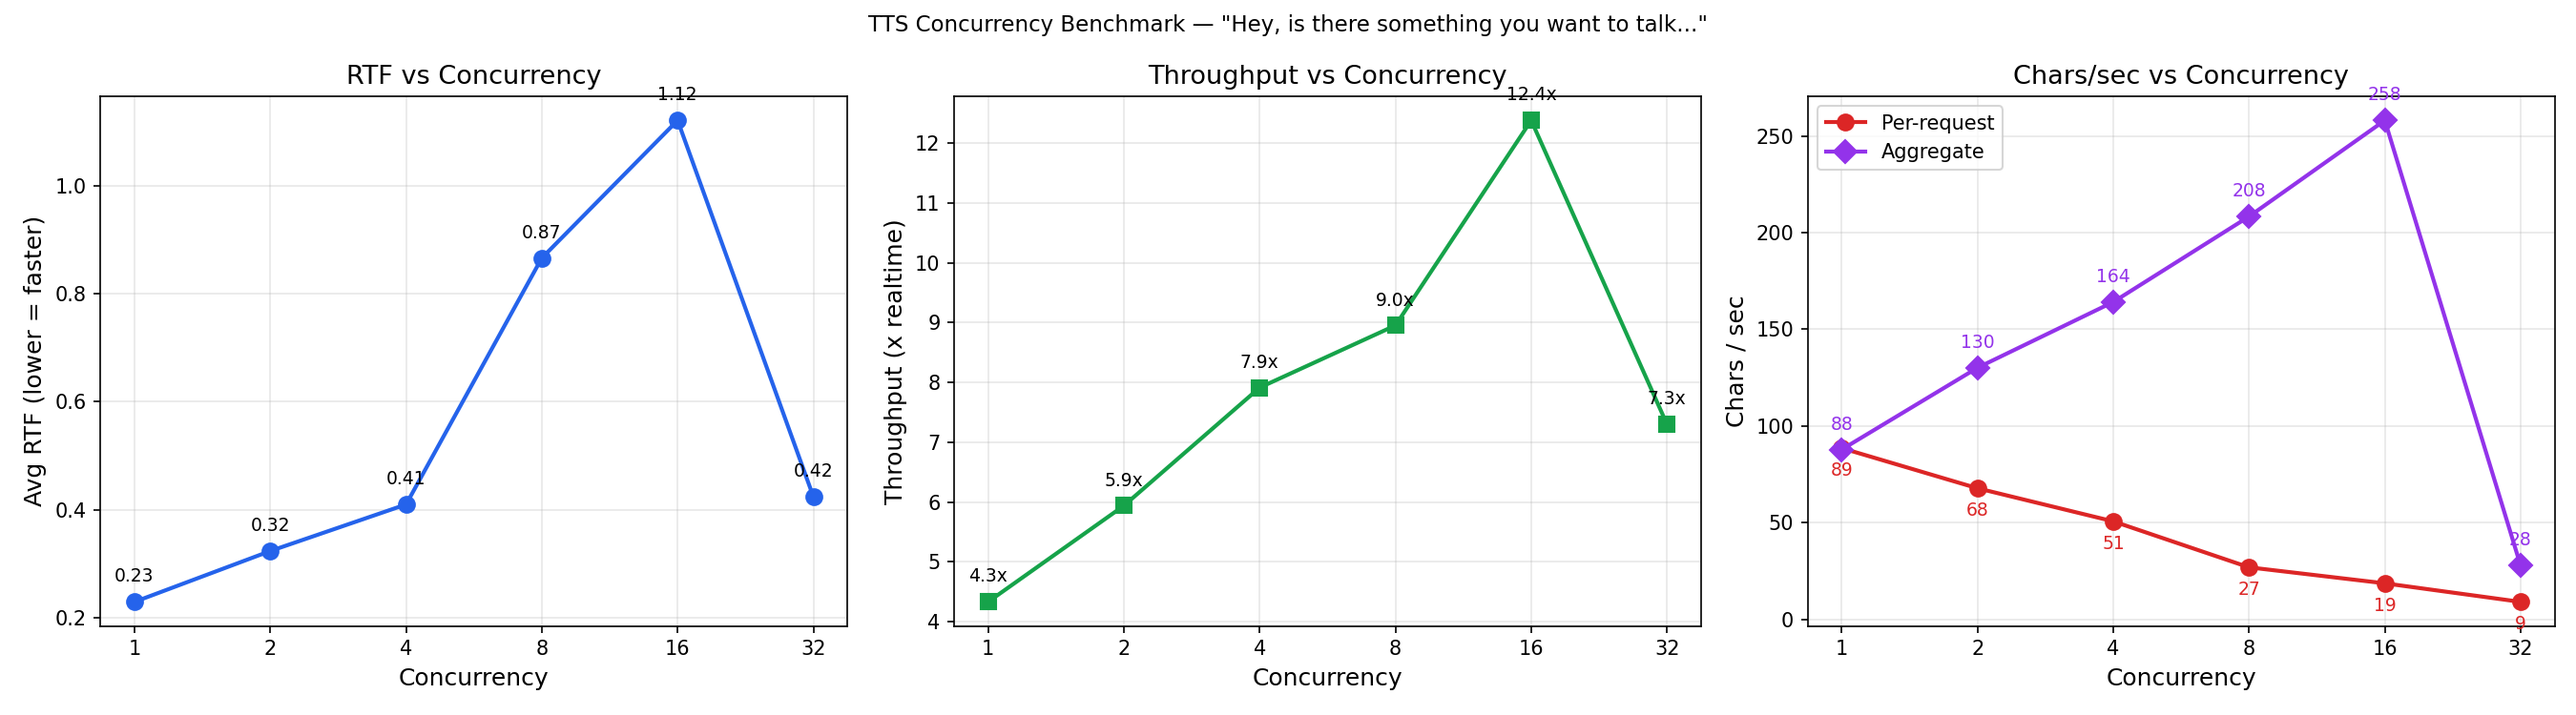
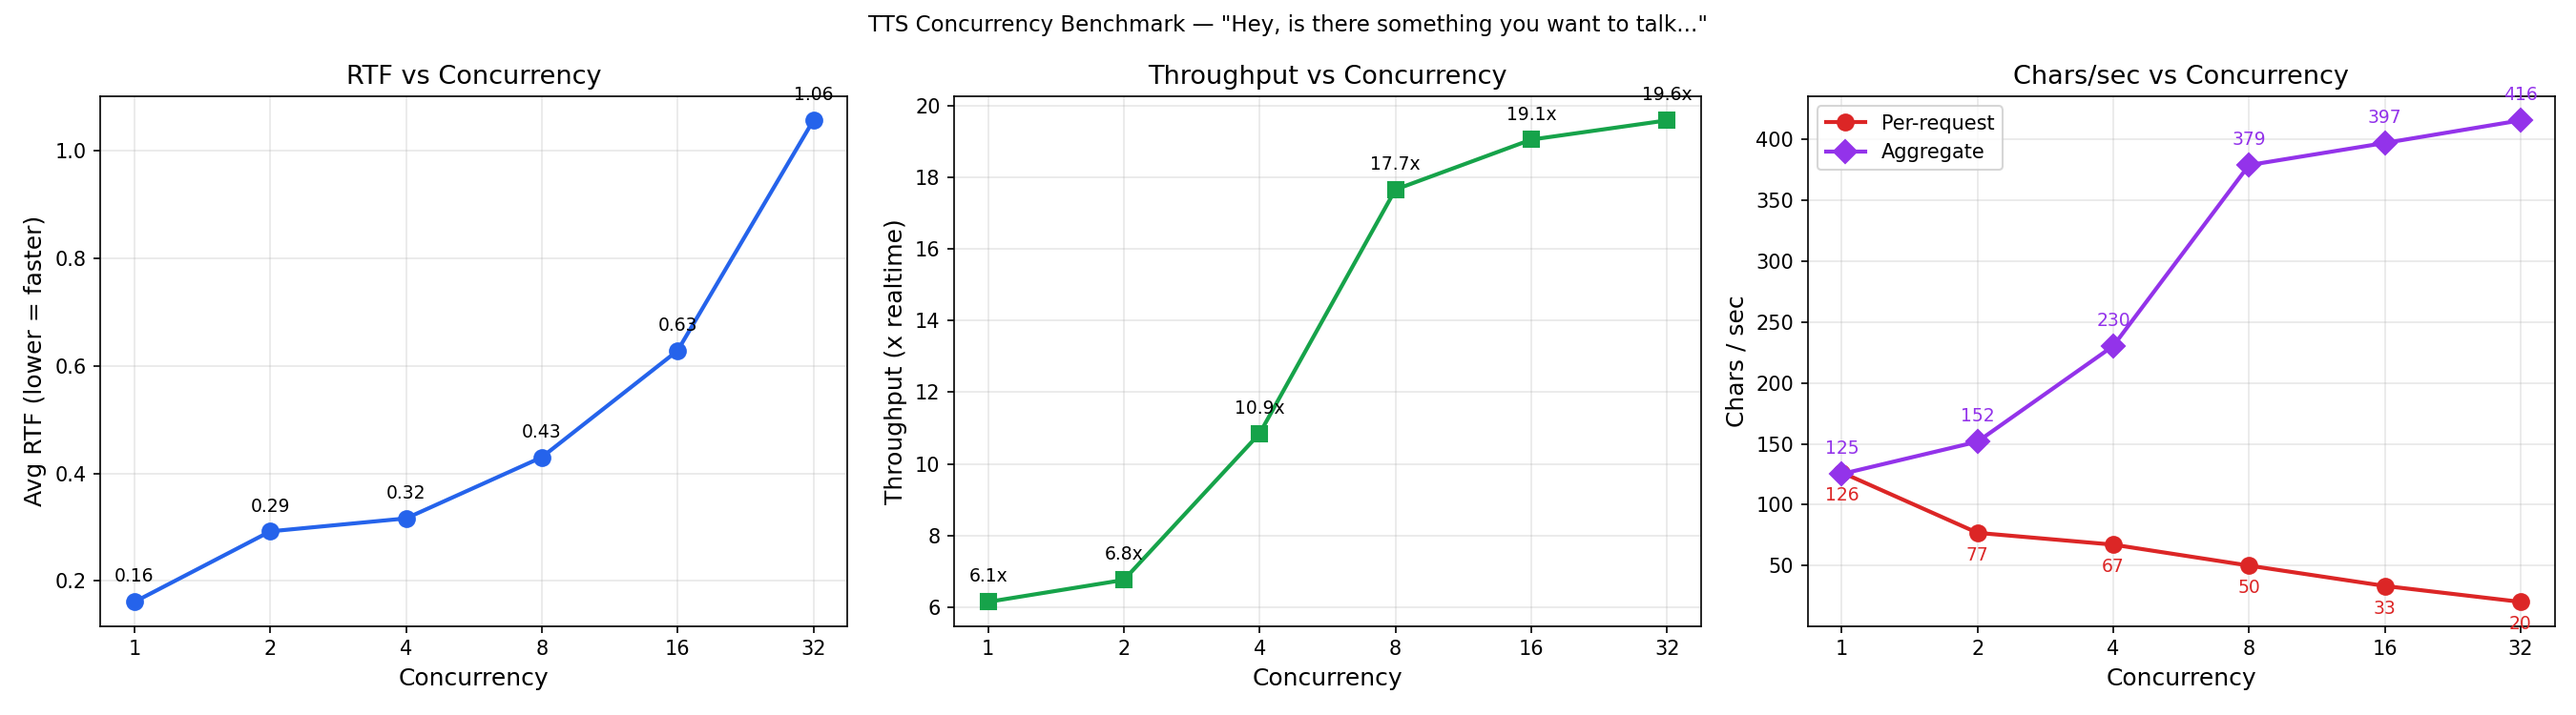
fast working config w/ x-vector

diff --git a/examples/online_serving/qwen3_tts/bench_concurrency.py b/examples/online_serving/qwen3_tts/bench_concurrency.py
@@ -61,6 +61,7 @@ def main():
     parser.add_argument("--runs", type=int, default=6, help="Min requests per level")
     parser.add_argument("--warmup", type=int, default=2)
     parser.add_argument("--cooldown", type=float, default=3.0, help="Seconds between levels")
+    parser.add_argument("--x-vector-only", action="store_true", help="Use x-vector only mode (no ICL)")
     args = parser.parse_args()
 
     url = f"{args.base_url}/v1/audio/speech"
@@ -70,6 +71,9 @@ def main():
         "voice": args.voice,
         "response_format": "wav",
     }
+    if args.x_vector_only:
+        payload["x_vector_only_mode"] = True
+        payload["task_type"] = "Base"
 
     # Warmup
     print(f"Warming up ({args.warmup} sequential requests)...")
